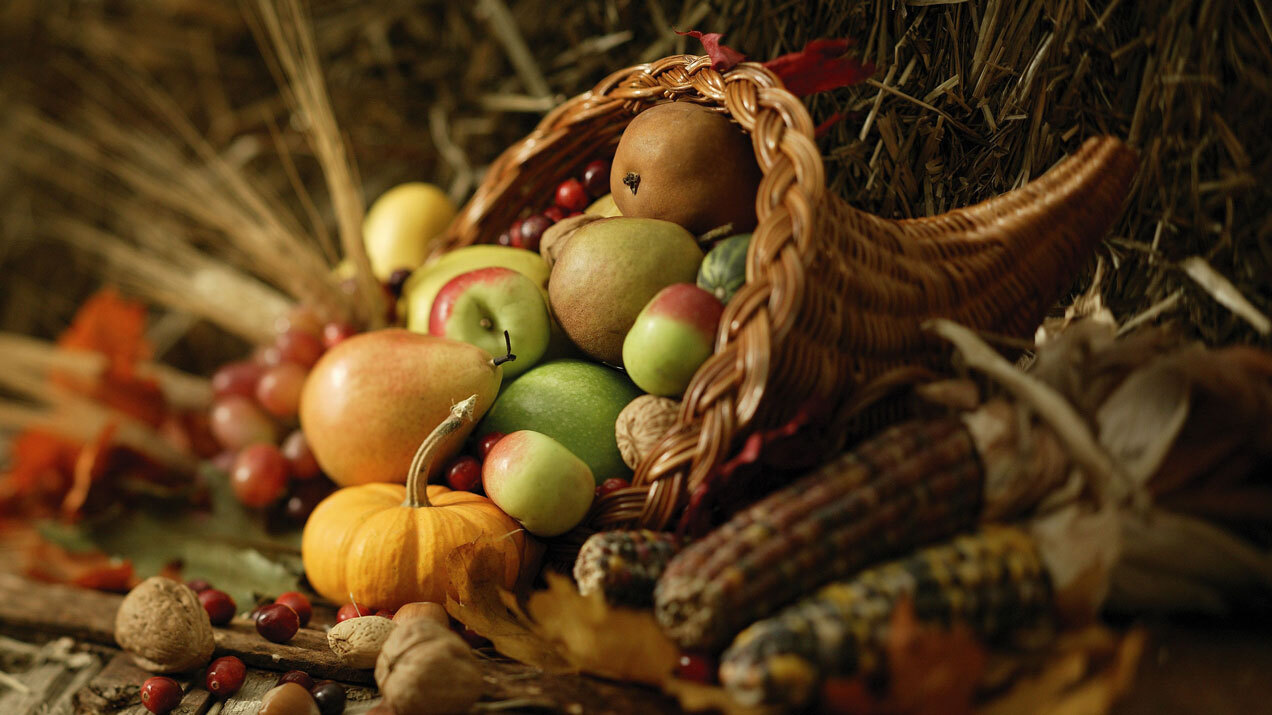
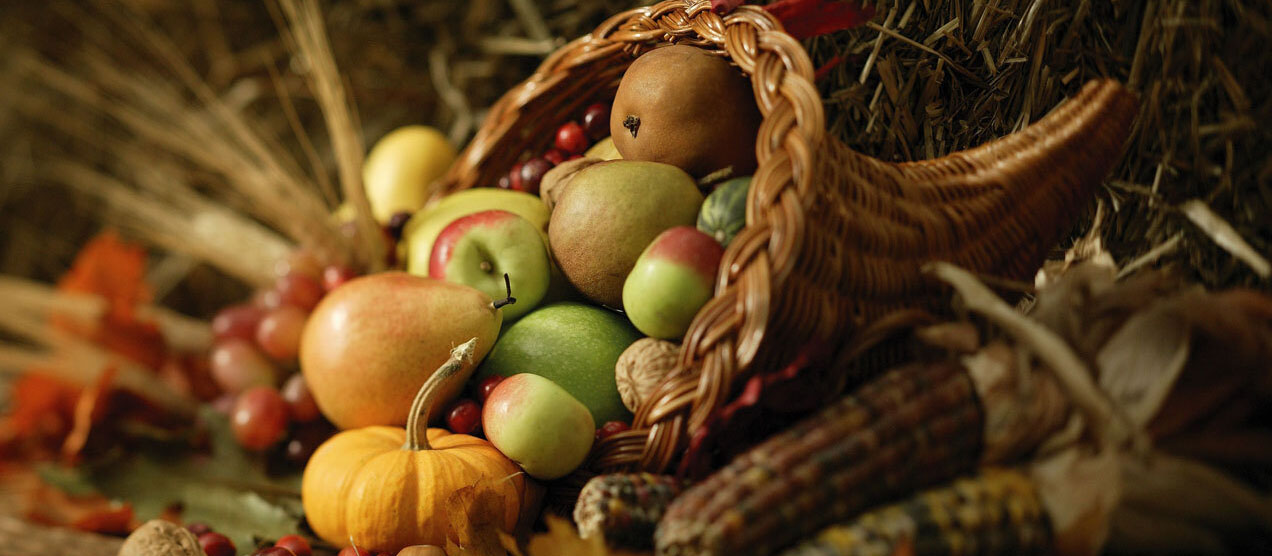
Added farmers button and updated title image size/positioning

diff --git a/client/components/Home/index.jsx b/client/components/Home/index.jsx
@@ -27,6 +27,14 @@ const Home = () => (
           </CenterText>
         </ButtonToPage>
       </StyledLink>
+      <StyledLink to="/shop/farmers">
+        <ButtonToPage>
+          <img src="../images/home-farmer-image.jpeg" alt="" />
+          <CenterText>
+            Farmers
+          </CenterText>
+        </ButtonToPage>
+      </StyledLink>
     </Links>
   </Homepage>
 );
@@ -36,7 +44,8 @@ const Homepage = styled.div`
   position: relative;
   flex-direction: column;
   align-items: center;
-  width: 70vw;
+  width: 100vw;
+  height: 100vh;
 `;
 
 const Title = styled.div`
@@ -44,8 +53,8 @@ const Title = styled.div`
   position: relative;
 
   img {
-    height: 50vh;
-    width: auto;
+    height: auto;
+    width: 100vw;
   }
 `;
 
@@ -56,7 +65,7 @@ const LogoDiv = styled.div`
   right: 5%;
 
   img {
-    height: 10%;
+    height: 20vw;
     width: auto;
   }
 `;
@@ -70,10 +79,11 @@ const ButtonToPage = styled.div`
   display: flex;
   position: relative;
   margin: 5vh 5vw;
-
+  box-shadow: 2px 2px 5px darkgrey;
   img {
-    width: 20vw;
-    height: 18vh;
+    // border-radius: 5px;
+    width: 22vw;
+    height: 20vh;
   }
 `;
 
@@ -91,6 +101,7 @@ const CenterText = styled.div`
   margin: 0;
   display: flex;
   position: absolute;
+  opacity: 40%;
   top: 50%;
   left: 50%;
   transform: translate(-50%, -50%);
